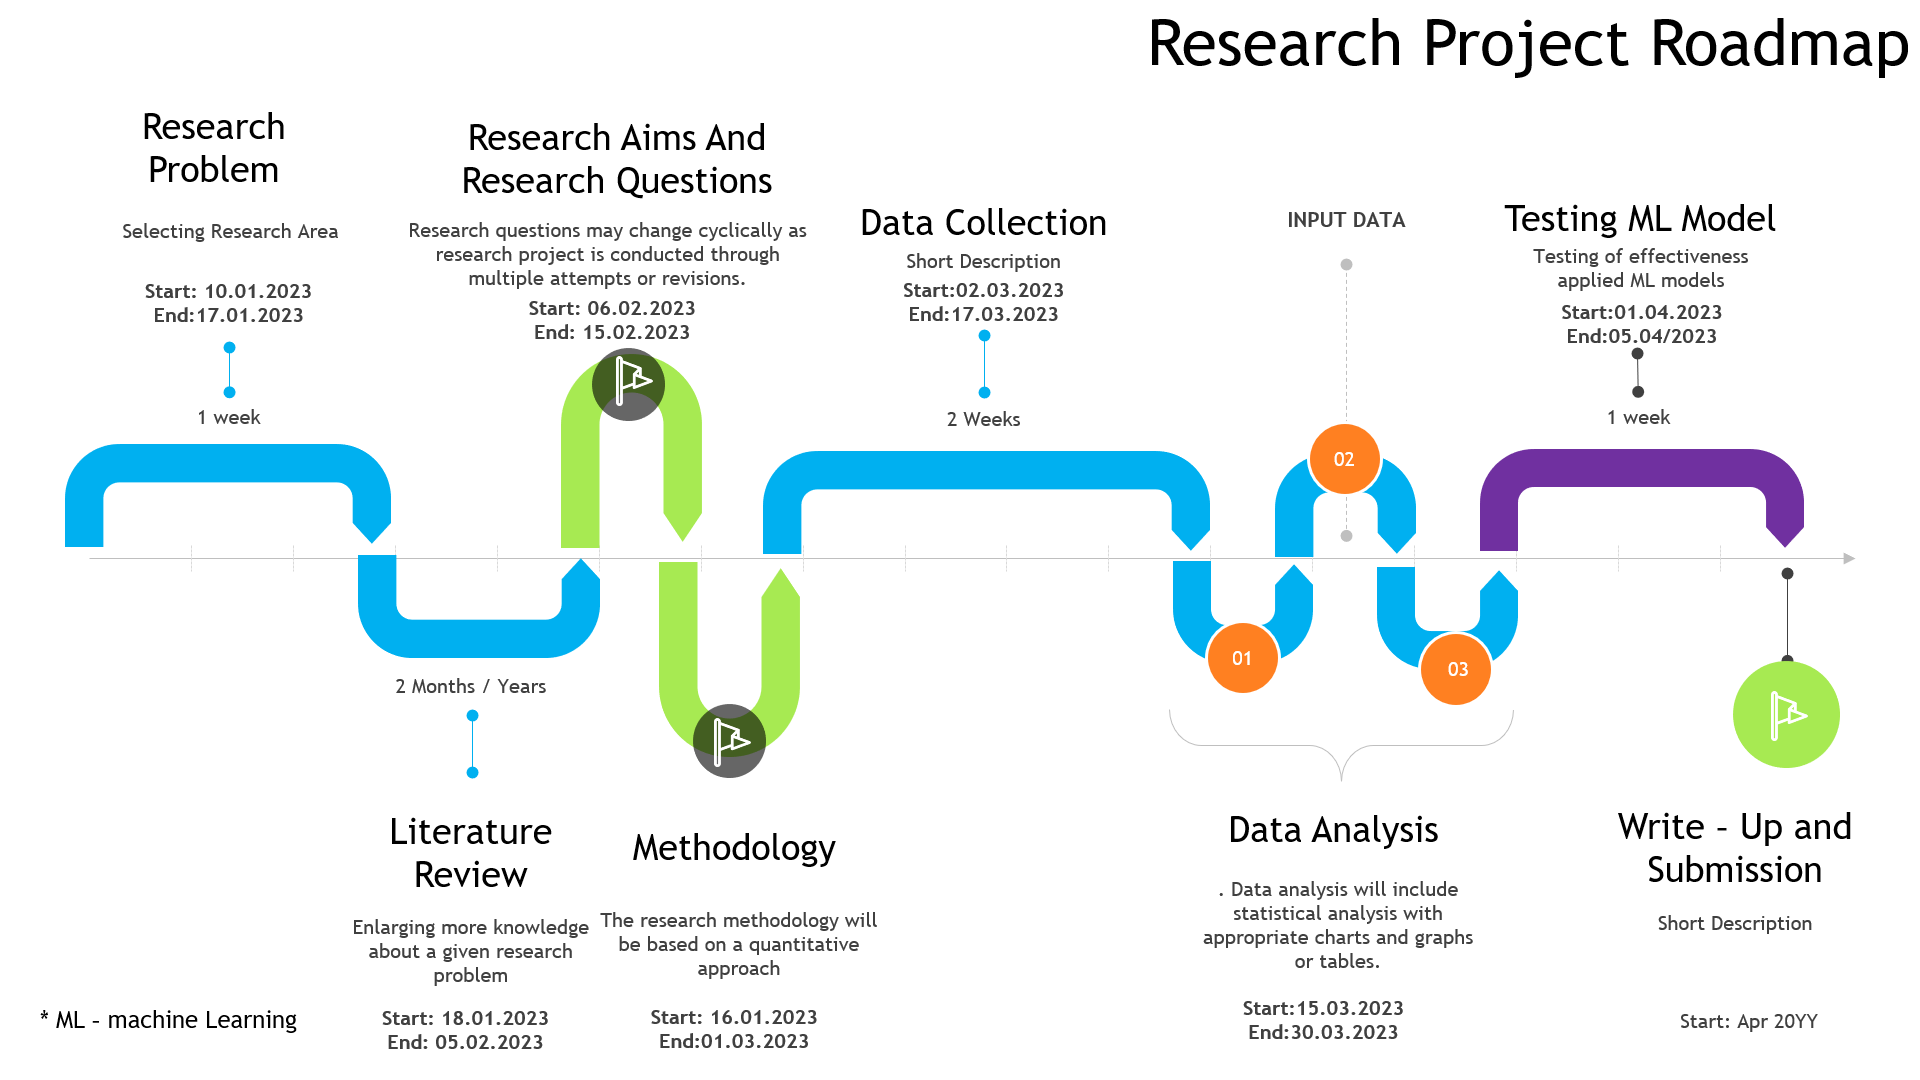
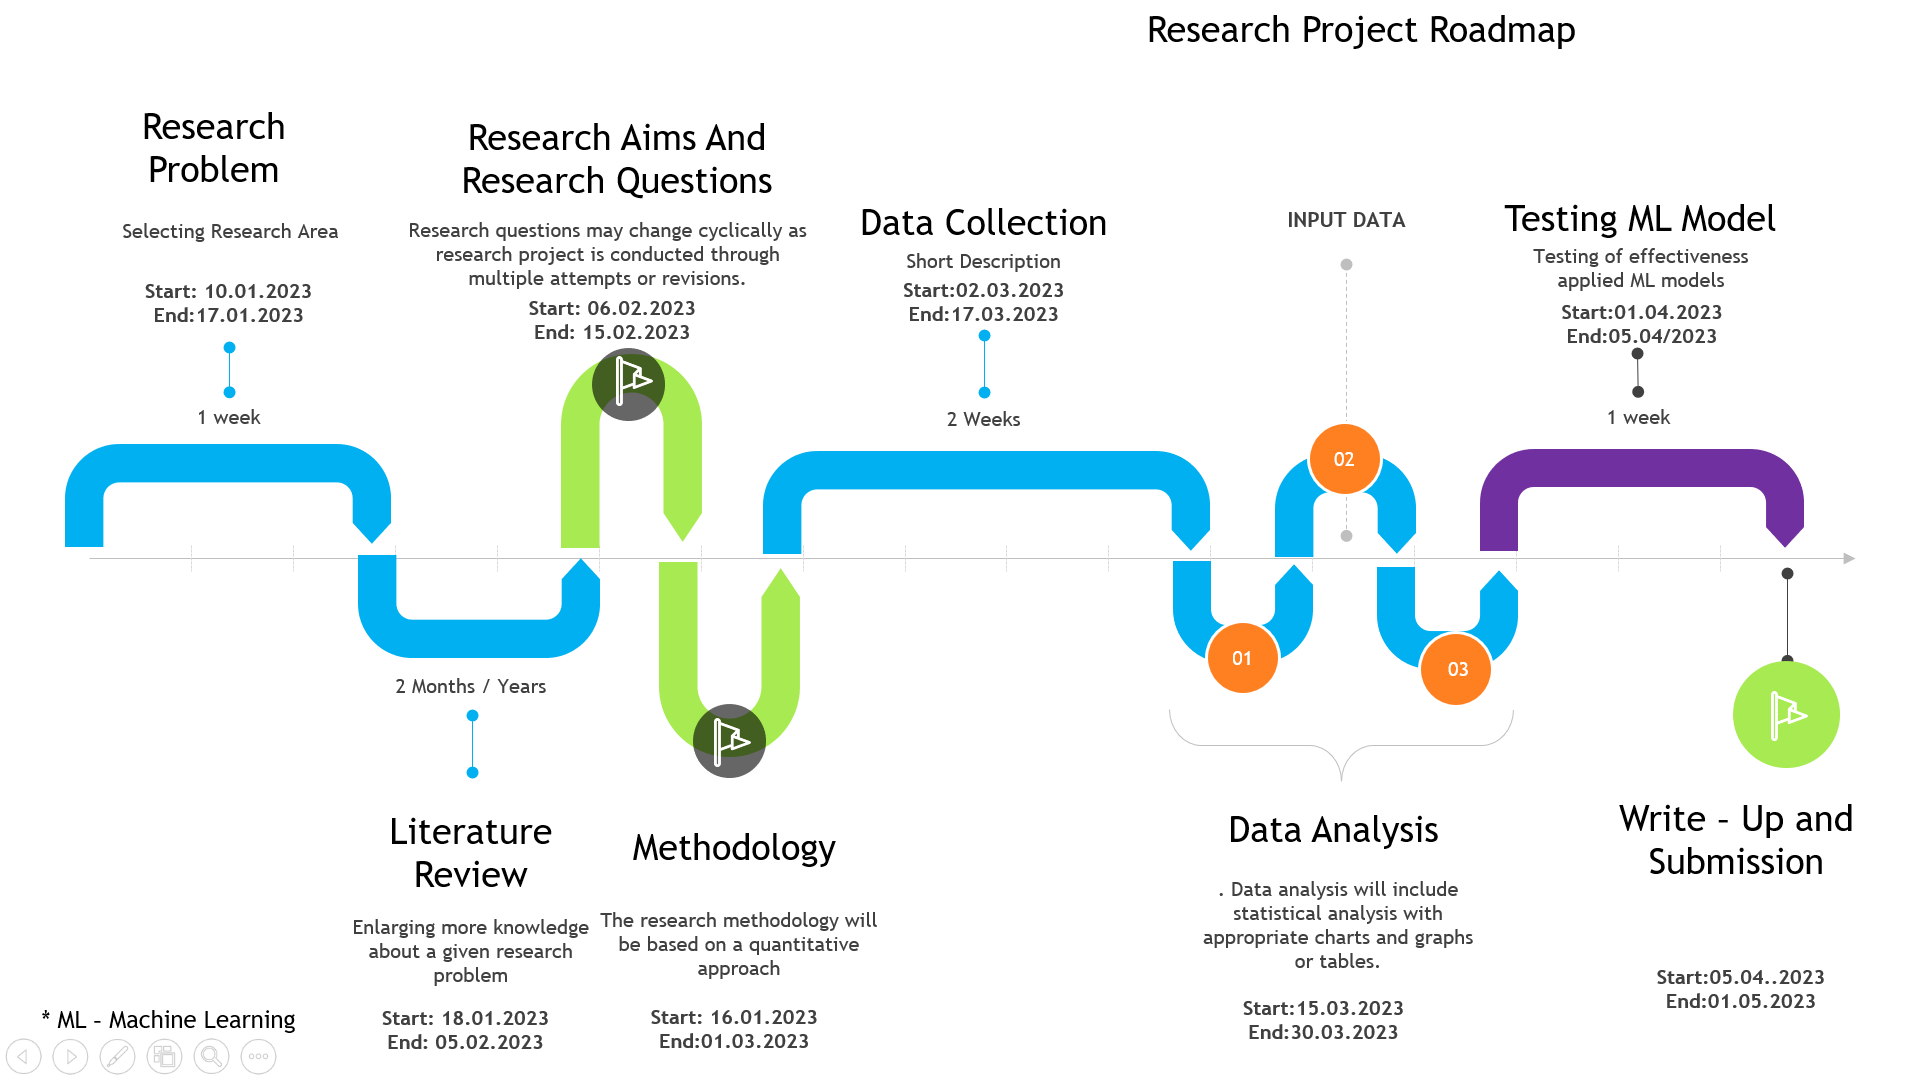
commit 3

diff --git a/src/pages/Infographic.js b/src/pages/Infographic.js
@@ -1,0 +1,22 @@
+import React from 'react';
+import logo from '../images/info.png';
+import logo2 from '../images/info2.png';
+
+const InfoPage = () => (
+    <>
+    <h1>Infographic</h1>
+    <p>
+      Research Project Infographics
+    </p>
+    <h3>The Infographic of the Research Project Roadmap</h3>
+    <img src={logo} className="photo" alt="Logo" />
+    <span>References: 
+    Verschuren, P., Doorewaard, H. and Mellion, M., 2010. Designing a research project (Vol. 2). The Hague: Eleven International Publishing.
+    </span>
+    <h3>The Infographic of the Research Project Phases</h3>
+    <img src={logo2} className="photo2" alt="Logo" />
+    <span>Eby, K. (2021). How to Measure Project Success | Smartsheet. [online] www.smartsheet.com. Available at: https://www.smartsheet.com/content/measuring-project-success. Accessed on: November 12, 2022.</span>
+    </>
+);
+
+export default InfoPage;

diff --git a/src/App.css b/src/App.css
@@ -7,7 +7,7 @@ button {
   padding: 16px;
   font-family: 'Segoe UI', Tahoma, Geneva, Verdana, sans-serif;
   font-size: 16px;
-  background-color: black;
+  background-color: rgb(83, 30, 190);
   color: white;
   border-radius: 8px;
   cursor: pointer;
@@ -18,7 +18,7 @@ h3, h4 {
 }
 
 nav {
-  border-bottom: 4px solid black;
+  border-bottom: 4px solid rgb(182, 43, 182);
   text-align: center;
   position: fixed;
   top: 0;
@@ -40,13 +40,13 @@ nav li {
 
 nav a {
   text-decoration: none;
-  color: black;
+  color: rgb(70, 16, 99);
   font-weight: bold;
   padding: 16px 32px;
 }
 
 nav a:hover {
-  background: black;
+  background: rgb(179, 27, 193);
   color: white;
 }
 
@@ -104,4 +104,8 @@ nav a:hover {
 .photo {
   height: 400px;
   width: 700px;
+}
+.photo2 {
+  height: 230px;
+  width: 800px;
 }

diff --git a/src/App.js b/src/App.js
@@ -10,6 +10,7 @@ import ArticlesListPage from './pages/ArticlesListPage';
 import ArticlePage from './pages/ArticlePage';
 import NotFoundPage from './pages/NotFoundPage';
 import NavBar from './NavBar';
+import InfoPage from './pages/Infographic';
 import './App.css';
 
 class App extends Component {
@@ -22,8 +23,10 @@ class App extends Component {
             <Switch>
               <Route path="/" component={HomePage} exact />
               <Route path="/about" component={AboutPage} />
+              <Route path="/info" component={InfoPage} />
               <Route path="/articles-list" component={ArticlesListPage} />
               <Route path="/article/:name" component={ArticlePage} />
+             
               <Route component={NotFoundPage} />
             </Switch>
           </div>

diff --git a/src/pages/AboutPage.js b/src/pages/AboutPage.js
@@ -3,15 +3,15 @@ import React from 'react';
 const AboutPage = () => (
     <>
     <h1>About me</h1>
-    <p>
-        Welcome to my blog! 
-        Name: Altynbek Tankayev
-        University: University of Sunderland, UK
-        Course: M.Sc. Computer Science with Data Science
-        Module: PROM04 Research Project Management
-        Assignment Title: My Research Project Roadmap
+    <div>
+      <h2>  Welcome to my blog! </h2>
+      <div>  Name: Altynbek Tankayev </div>
+      <div>University: University of Sunderland, UK</div>  
+       <div>Course: M.Sc. Computer Science with Data Science</div> 
+       <div>Module: PROM04 Research Project Management</div> 
+       <div>Assignment Title: My Research Project Roadmap</div> 
         
-    </p>
+    </div>
     
     </>
 );

diff --git a/src/pages/HomePage.js b/src/pages/HomePage.js
@@ -1,15 +1,15 @@
 import React from 'react';
-import logo from '../images/info.png';
+
 const HomePage = () => (
     <>
     <h1>Hello, welcome to my DataScience blog!</h1>
     <p>
         Welcome to my blog! Welcome to my data science blog!
 
-        As part of the course in Research Project Management, this web page will discuss my approach, how research results will be evaluated,
+        As part of the course in PROM05 Research Project Management, this web blog page will outline my approach, how research results will be evaluated,
          what research methodology and related tools will be used.
     </p>
-    <img src={logo} className="photo" alt="Logo" />
+ 
     </>
 );
 

diff --git a/src/NavBar.js b/src/NavBar.js
@@ -13,6 +13,9 @@ const NavBar = () => (
             <li>
                 <Link to="/articles-list">Articles</Link>
             </li>
+            <li>
+            <Link to="/info">Infographics</Link>
+        </li>
         </ul>
     </nav>
 );
